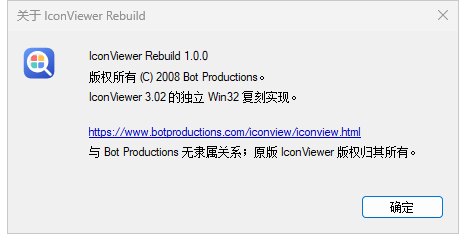
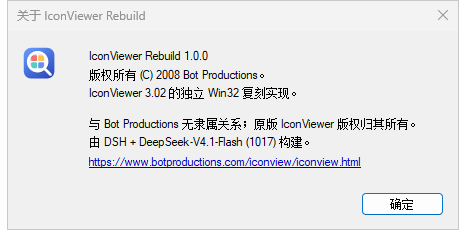
Credit DSH + DeepSeek-V4.1-Flash, add release notes
- About box and README/CREDITS now credit the harness and model that produced the project.\n- docs/RELEASE_NOTES.md: text ready to paste into the v1.0.0 GitHub Release.\n- CI: explicit read-only permissions, 30-day artifact retention.

diff --git a/src/strings.cpp b/src/strings.cpp
@@ -84,6 +84,7 @@ const wchar_t* kEn[S_COUNT] = {
     L"Not affiliated with Bot Productions. IconViewer (C) 2008 Bot Productions.",
     L"https://www.botproductions.com/iconview/iconview.html",
     L"The selected files do not contain any icons.",
+    L"Built with DSH + DeepSeek-V4.1-Flash (1017).",
 };
 
 const wchar_t* kZh[S_COUNT] = {
@@ -168,6 +169,7 @@ const wchar_t* kZh[S_COUNT] = {
     L"与 Bot Productions 无隶属关系；原版 IconViewer 版权归其所有。",
     L"https://www.botproductions.com/iconview/iconview.html",
     L"所选文件不包含任何图标。",
+    L"由 DSH + DeepSeek-V4.1-Flash (1017) 构建。",
 };
 
 int g_langSetting = 0;

diff --git a/src/main.cpp b/src/main.cpp
@@ -695,6 +695,7 @@ static INT_PTR CALLBACK AboutProc(HWND hDlg, UINT msg, WPARAM wp, LPARAM lp) {
         SetDlgItemTextW(hDlg, IDC_ABOUT_COPYRIGHT, T(S_ABOUT_COPYRIGHT));
         SetDlgItemTextW(hDlg, IDC_ABOUT_DESC, T(S_ABOUT_DESC));
         SetDlgItemTextW(hDlg, IDC_ABOUT_NOTE, T(S_ABOUT_NOTE));
+        SetDlgItemTextW(hDlg, IDC_ABOUT_CREDIT, T(S_ABOUT_CREDIT));
         SetDlgItemTextW(hDlg, IDC_ABOUT_LINK, T(S_ABOUT_LINK));
         SetDlgItemTextW(hDlg, IDOK, T(S_OPT_OK));
         CenterWindowOnParent(hDlg, g_hMain);

diff --git a/src/resource.h b/src/resource.h
@@ -33,6 +33,7 @@
 #define IDC_ABOUT_DESC 1023
 #define IDC_ABOUT_LINK 1024
 #define IDC_ABOUT_NOTE 1025
+#define IDC_ABOUT_CREDIT 1026
 
 #define IDC_STATUS 2001
 #define IDC_ICONLIST 2002

diff --git a/src/strings.h b/src/strings.h
@@ -77,6 +77,7 @@ enum StrId : int {
     S_ABOUT_NOTE,
     S_ABOUT_LINK,
     S_STATUS_NOICONS_MULTI,
+    S_ABOUT_CREDIT,
     S_COUNT
 };
 

diff --git a/docs/RELEASE_NOTES.md b/docs/RELEASE_NOTES.md
@@ -1,0 +1,40 @@
+# IconViewer Rebuild 1.0.0
+
+A standalone Windows tool that shows **every icon and device image inside a program, library
+or icon file** — an independent Win32 reimplementation of the classic
+[IconViewer 3.02](https://www.botproductions.com/iconview/iconview.html) Explorer property
+page, rebuilt as a normal application.
+
+## Download
+
+| File | Notes |
+| --- | --- |
+| `IconViewerRebuild.exe` | x64, single file, no installer, no runtime required. Windows 7 or newer. |
+
+## Highlights
+
+* Reads `RT_GROUP_ICON` resources plus stray `RT_ICON`s, and parses `.ico` / `.cur` directly.
+* Lists **all device images** with the original wording: `256x256, 32-bit (PNG)`,
+  `48x48, 256 colors`, …
+* Preview with a magnifier flyout anchored to the preview box.
+* Multi-select (Ctrl/Shift, Ctrl+A), **drag icons out** to Explorer or the desktop.
+* **Copy** puts real files (`CF_HDROP`) *and* a bitmap (`CF_DIB`/`CF_BITMAP`) on the clipboard —
+  Explorer pastes icon files, Paint/Word paste the bitmap.
+* **Save As**: icon → `.ico`, device image → `.bmp` (background colour blended) or `.png`
+  (alpha preserved). **Export** writes many icons to a folder at once.
+* Options: background colour, device-image ordering, multi-file behaviour, grouping by file.
+* English and Simplified Chinese UI, follows the system language, switchable at runtime.
+* Long resource names are ellipsised in the list and shown in full on hover.
+
+## Install
+
+It is a single portable exe — put it anywhere and run it. There is nothing to install and
+nothing is registered in Explorer. Settings live in
+`HKCU\Software\IconViewerRebuild`.
+
+## Notes
+
+* MIT licensed. The original IconViewer is © 2008 Bot Productions; this project is not
+  affiliated with them and ships none of their code or assets.
+* Built with **DSH + DeepSeek-V4.1-Flash (1017)** — see `CREDITS.md`.
+* Checksums: `SHA256  <fill in>`.

diff --git a/README.md b/README.md
@@ -9,6 +9,9 @@ page, rebuilt as a standalone app.
 
 No installation, no shell extension, no dependencies: one `IconViewerRebuild.exe`.
 
+> Built with **DSH** + **DeepSeek-V4.1-Flash (1017)** — analysis, implementation, icon and
+> docs were produced in that setup. See [CREDITS.md](CREDITS.md).
+
 ![IconViewer Rebuild](docs/screenshots/rebuild_main.png)
 
 ---
@@ -36,8 +39,13 @@ No installation, no shell extension, no dependencies: one `IconViewerRebuild.exe
 
 ## Download
 
-Grab `IconViewerRebuild.exe` from the [releases](../../releases) page or from a CI build
-artifact. x64, Windows 7 or newer, no runtime to install.
+Grab `IconViewerRebuild.exe` from the [releases](../../releases) page. x64, Windows 7 or
+newer, no runtime to install.
+
+CI also builds the same exe on every push: open **Actions → build → the latest run** and
+download the `IconViewerRebuild-x64` artifact from the *Artifacts* section at the bottom of
+the run summary (it is a `.zip`). Artifacts expire after 30 days; releases are uploaded
+manually.
 
 ## Build
 
@@ -120,3 +128,8 @@ node tools\icon\make-ico.js
 
 MIT — see [LICENSE](LICENSE). Original IconViewer is © 2008 Bot Productions and is **not**
 part of this project.
+
+## Credits
+
+Produced with **DSH** (DeepSeek Harness) driving **DeepSeek-V4.1-Flash (1017)**. Details in
+[CREDITS.md](CREDITS.md).

diff --git a/CREDITS.md b/CREDITS.md
@@ -1,0 +1,14 @@
+# Credits
+
+**IconViewer Rebuild** was produced with **DSH** (DeepSeek Harness) driving
+**DeepSeek-V4.1-Flash (1017)** — the binary analysis, the Win32 implementation, the
+localisation, the icon artwork and the documentation in this repository were created in that
+setup. Human involvement was direction, review and testing.
+
+## Third parties
+
+* **IconViewer 3.02** — concept and UI of the original Explorer property page,
+  Copyright (C) 2008 Bot Productions, <https://www.botproductions.com/iconview/iconview.html>.
+  This project is an independent reimplementation; see [ATTRIBUTION.md](ATTRIBUTION.md).
+* **Microsoft Windows SDK / MSVC** — build toolchain. No third-party libraries are linked:
+  the program uses plain Win32, GDI+ and COM only.
